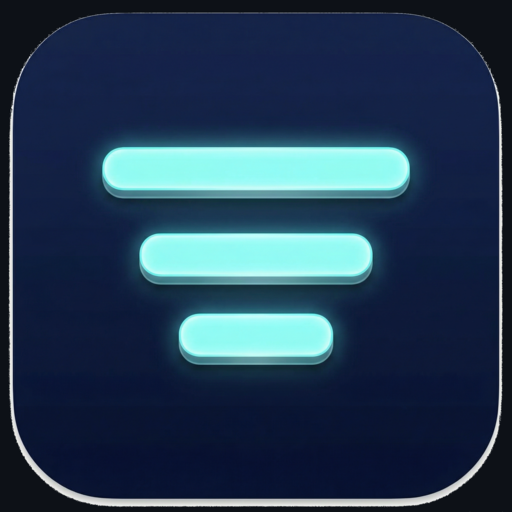
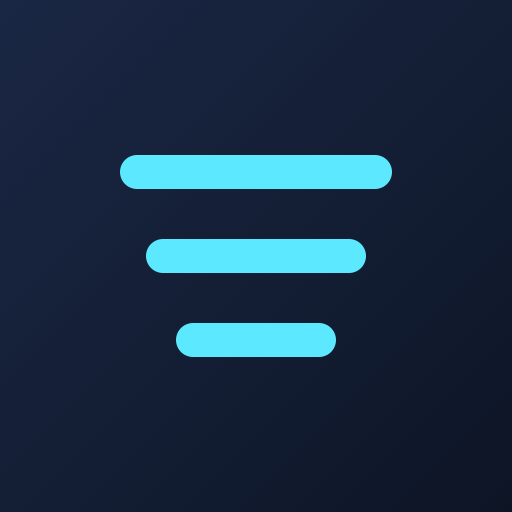
fix: update accent color to #5CE8FF, fix broken links and social proof
- Change accent CSS variables from #5fa8d3 to #5CE8FF
- Fix all 6 hardcoded rgba values to match new accent
- Fix SaneClip/SaneHosts card onclick URLs (were pointing to sanebar.com)
- Fix SaneSync/SaneVideo Coming Soon links (were pointing to saneclick.com)
- Remove stray </span> on SaneClick card
- Add og:image:alt, theme-color, twitter:site meta tags
- Update social proof links from placeholder # to real URLs
- Regenerate sanebar-icon.png and update SVG with new bar color

diff --git a/index.html b/index.html
@@ -11,6 +11,7 @@
     <meta name="keywords" content="macOS apps, open source, privacy, menu bar, SaneBar, Bartender alternative, clipboard manager, Mac utilities, indie software">
     <meta name="author" content="Mr. Sane">
     <meta name="robots" content="index, follow">
+    <meta name="theme-color" content="#08080c">
     <link rel="canonical" href="https://saneapps.com/">
 
     <!-- Open Graph / Facebook -->
@@ -19,6 +20,7 @@
     <meta property="og:title" content="SaneApps - Open Source macOS Utilities">
     <meta property="og:description" content="Open source macOS apps that respect your privacy. No telemetry, no subscriptions.">
     <meta property="og:image" content="https://saneapps.com/og-image.png">
+    <meta property="og:image:alt" content="SaneApps - Open Source macOS Utilities">
     <meta property="og:image:width" content="1200">
     <meta property="og:image:height" content="630">
     <meta property="og:site_name" content="SaneApps">
@@ -30,6 +32,7 @@
     <meta name="twitter:title" content="SaneApps - Open Source macOS Utilities">
     <meta name="twitter:description" content="Open source macOS apps that respect your privacy. No telemetry, no subscriptions.">
     <meta name="twitter:image" content="https://saneapps.com/og-image.png">
+    <meta name="twitter:site" content="@saneapps">
 
     <!-- Favicon -->
     <link rel="icon" type="image/png" href="favicon.png">
@@ -66,9 +69,9 @@
             --text: #f5f5f8;
             --text-muted: #d8d8e8;
             --text-dim: #c0c0d0;
-            --accent: #5fa8d3;
-            --accent-hover: #7fbde3;
-            --accent-glow: rgba(95, 168, 211, 0.2);
+            --accent: #5CE8FF;
+            --accent-hover: #7eedff;
+            --accent-glow: rgba(92, 232, 255, 0.2);
             --green: #34d399;
             --green-soft: rgba(52, 211, 153, 0.15);
             --border: #252530;
@@ -97,8 +100,8 @@
             right: 0;
             bottom: 0;
             background:
-                radial-gradient(ellipse at 20% 15%, rgba(95, 168, 211, 0.1) 0%, transparent 50%),
-                radial-gradient(ellipse at 80% 85%, rgba(95, 168, 211, 0.06) 0%, transparent 50%),
+                radial-gradient(ellipse at 20% 15%, rgba(92, 232, 255, 0.1) 0%, transparent 50%),
+                radial-gradient(ellipse at 80% 85%, rgba(92, 232, 255, 0.06) 0%, transparent 50%),
                 var(--bg);
             pointer-events: none;
             z-index: -1;
@@ -351,7 +354,7 @@
         .app-card:hover {
             border-color: var(--accent);
             transform: translateY(-4px);
-            box-shadow: 0 16px 40px rgba(0, 0, 0, 0.3), 0 0 0 1px rgba(95, 168, 211, 0.1);
+            box-shadow: 0 16px 40px rgba(0, 0, 0, 0.3), 0 0 0 1px rgba(92, 232, 255, 0.1);
         }
 
         .app-card:hover::before {
@@ -359,7 +362,7 @@
         }
 
         .app-card.featured {
-            border-color: rgba(95, 168, 211, 0.25);
+            border-color: rgba(92, 232, 255, 0.25);
         }
 
         .app-header {
@@ -394,7 +397,7 @@
         }
 
         .app-status.soon {
-            background: rgba(95, 168, 211, 0.15);
+            background: rgba(92, 232, 255, 0.15);
             color: var(--accent);
         }
 
@@ -521,7 +524,7 @@
 
         .testimonial-item:hover {
             border-color: var(--accent);
-            box-shadow: 0 0 20px rgba(95, 168, 211, 0.15);
+            box-shadow: 0 0 20px rgba(92, 232, 255, 0.15);
             transform: translateY(-2px);
         }
 
@@ -938,7 +941,7 @@
                     </div>
 
                     <!-- SaneClip -->
-                    <div class="app-card featured" onclick="window.location.href='https://sanebar.com'">
+                    <div class="app-card featured" onclick="window.location.href='https://saneclip.com'">
                         <div class="app-header">
                             <img src="icons/saneclip-icon.png" alt="SaneClip" class="app-icon">
                             <span class="app-name">SaneClip</span>
@@ -951,7 +954,7 @@
                     </div>
 
                     <!-- SaneHosts -->
-                    <div class="app-card featured" onclick="window.location.href='https://sanebar.com'">
+                    <div class="app-card featured" onclick="window.location.href='https://sanehosts.com'">
                         <div class="app-header">
                             <img src="icons/sanehosts-icon.png" alt="SaneHosts" class="app-icon">
                             <span class="app-name">SaneHosts</span>
@@ -972,7 +975,7 @@
                         </div>
                         <p class="app-desc">Direct device-to-device file sync. No cloud middleman, no one else touches your data.</p>
                         <div class="app-links">
-                            <a href="https://saneclick.com">Get SaneClick &rarr;</a></span>
+                            <a href="#">Coming Soon</a>
                         </div>
                     </div>
 
@@ -985,7 +988,7 @@
                         </div>
                         <p class="app-desc">Local video processing and transcription. Fast, lightweight, your footage never leaves your Mac.</p>
                         <div class="app-links">
-                            <a href="https://saneclick.com">Get SaneClick &rarr;</a></span>
+                            <a href="#">Coming Soon</a>
                         </div>
                     </div>
 
@@ -999,7 +1002,7 @@
                         </div>
                         <p class="app-desc">Right-click power tools for Finder. Resize images, convert files, run scripts — all from context menus.</p>
                         <div class="app-links">
-                            <a href="https://saneclick.com">Get SaneClick &rarr;</a></span>
+                            <a href="https://saneclick.com">Get SaneClick &rarr;</a>
                         </div>
                     </div>
                 </div>
@@ -1016,15 +1019,15 @@
                             <svg width="20" height="20" viewBox="0 0 40 40" fill="currentColor"><path d="M20 0C8.954 0 0 8.954 0 20s8.954 20 20 20 20-8.954 20-20S31.046 0 20 0zm0 36C11.163 36 4 28.837 4 20S11.163 4 20 4s16 7.163 16 16-7.163 16-16 16zm3.5-18H18v-4h5.5c1.103 0 2 .897 2 2s-.897 2-2 2zm0-8H14v16h4v-4h5.5c3.314 0 6-2.686 6-6s-2.686-6-6-6z"/></svg>
                             Product Hunt
                         </a>
-                        <a href="#" class="seen-item">
+                        <a href="https://launchigniter.com" target="_blank" rel="noopener" class="seen-item">
                             <svg width="18" height="18" viewBox="0 0 24 24" fill="none" stroke="currentColor" stroke-width="2"><path d="M12 2L2 7l10 5 10-5-10-5z"/><path d="M2 17l10 5 10-5"/><path d="M2 12l10 5 10-5"/></svg>
                             Launch Igniter
                         </a>
-                        <a href="#" class="seen-item">
+                        <a href="https://www.reddit.com/r/macapps/" target="_blank" rel="noopener" class="seen-item">
                             <svg width="18" height="18" viewBox="0 0 24 24" fill="none" stroke="currentColor" stroke-width="2"><circle cx="12" cy="12" r="10"/><path d="M2 12h20"/><path d="M12 2a15.3 15.3 0 0 1 4 10 15.3 15.3 0 0 1-4 10 15.3 15.3 0 0 1-4-10 15.3 15.3 0 0 1 4-10z"/></svg>
                             Reddit r/macapps
                         </a>
-                        <a href="#" class="seen-item">
+                        <a href="https://macnerd.substack.com" target="_blank" rel="noopener" class="seen-item">
                             <svg width="18" height="18" viewBox="0 0 24 24" fill="none" stroke="currentColor" stroke-width="2"><path d="M4 4h16c1.1 0 2 .9 2 2v12c0 1.1-.9 2-2 2H4c-1.1 0-2-.9-2-2V6c0-1.1.9-2 2-2z"/><polyline points="22,6 12,13 2,6"/></svg>
                             Mac Nerd Newsletter
                         </a>
@@ -1154,8 +1157,7 @@
                 <div class="sustainability-card">
                     <h2>Open Source <em>&#8800;</em> Free</h2>
                     <div class="sustainability-body">
-                        <p>"Free" software usually means one of two things: <strong>the developer burns out and quits</strong>, or <strong>your data is the product</strong>. Neither is sustainable.</p>
-                        <p>Open source tools die every year because there's no model to keep them alive. The developer can't afford hosting, can't afford an Apple Developer account, can't afford to keep fixing things. So they stop. And you're left with abandoned software that breaks on the next macOS update.</p>
+                        <p>Great open-source tools die when developers can't sustain them. The developer can't afford hosting, can't afford an Apple Developer account, can't afford to keep fixing things. So they stop. And you're left with abandoned software that breaks on the next macOS update.</p>
                         <p>SaneApps are different: <strong>open source AND sustainable</strong>.</p>
                         <div class="sustainability-options">
                             <div class="sustainability-option">
